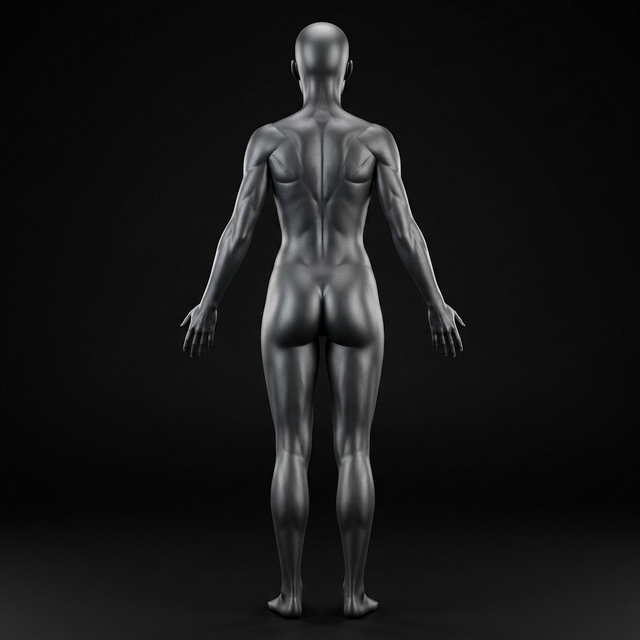
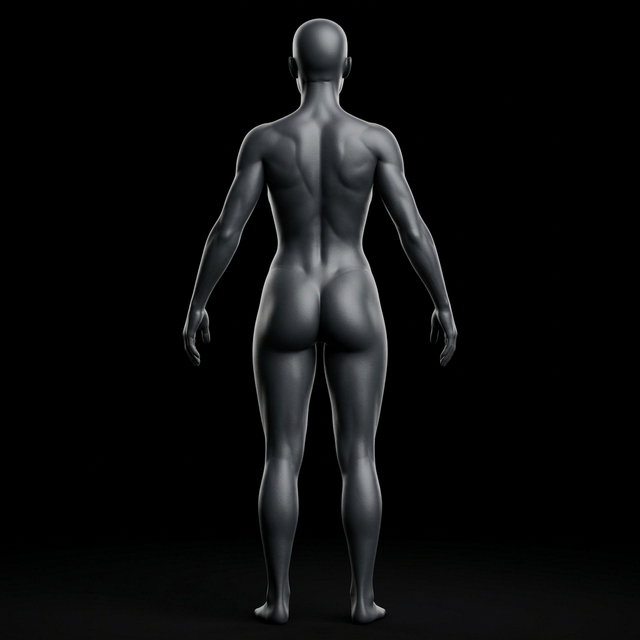
fix: female muscle map — new aligned body images + reuse male overlays
- Replace female body images with better-aligned v3 versions that match
  the same positioning/scale as the male mannequin
- BodyMapSvg now reuses /muscle-overlays (male) for female gender too,
  since those overlays already depict female anatomy and have pure black
  backgrounds that work correctly with CSS lighten blend mode
- Remove separate /muscle-overlays-female folder from render logic

Changed region(s): [[0.2812, 0.0312, 0.7188, 0.9688], [0.0, 0.875, 0.125, 1.0], [0.9062, 0.875, 1.0, 1.0]]

diff --git a/src/components/muscle-map/BodyMapSvg.tsx b/src/components/muscle-map/BodyMapSvg.tsx
@@ -72,7 +72,9 @@ const BodyMapSvg = memo(function BodyMapSvg({ view, muscles, onSelect, selected,
   const baseSrc = view === 'front'
     ? (isFemale ? '/body-front-female.png' : '/body-front.png')
     : (isFemale ? '/body-back-female.png' : '/body-back.png')
-  const overlayFolder = isFemale ? '/muscle-overlays-female' : '/muscle-overlays'
+  // Female mode reuses the same overlay set — the original overlays already depict
+  // female anatomy (chest/glutes) and have pure black backgrounds that blend correctly.
+  const overlayFolder = '/muscle-overlays'
 
   const layers = useMemo(() => dedup(overlays, muscles), [overlays, muscles])
 
